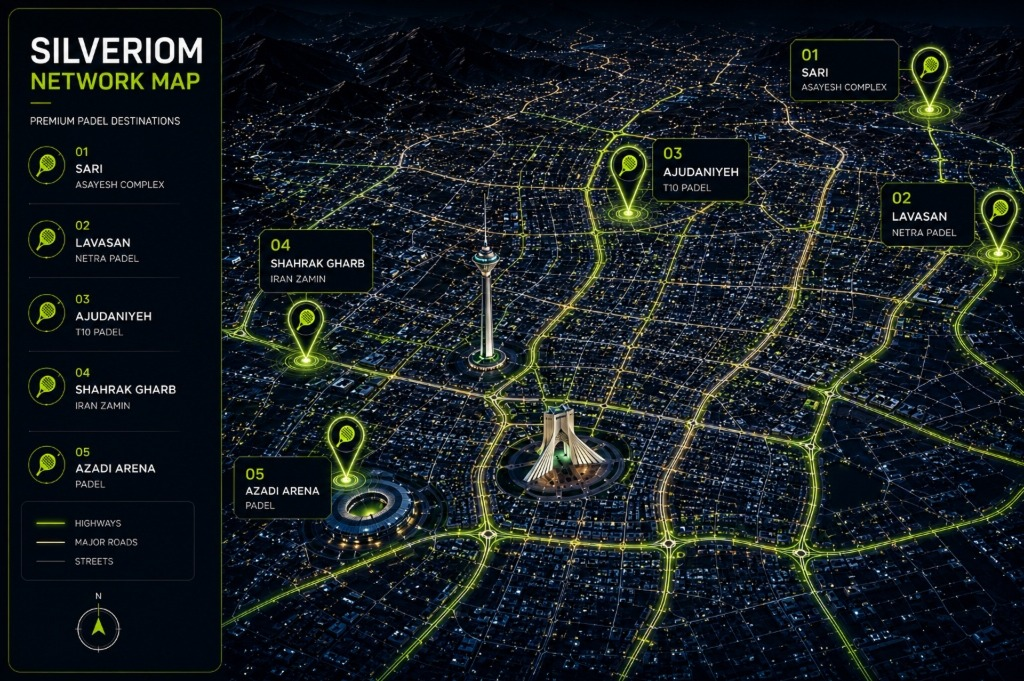
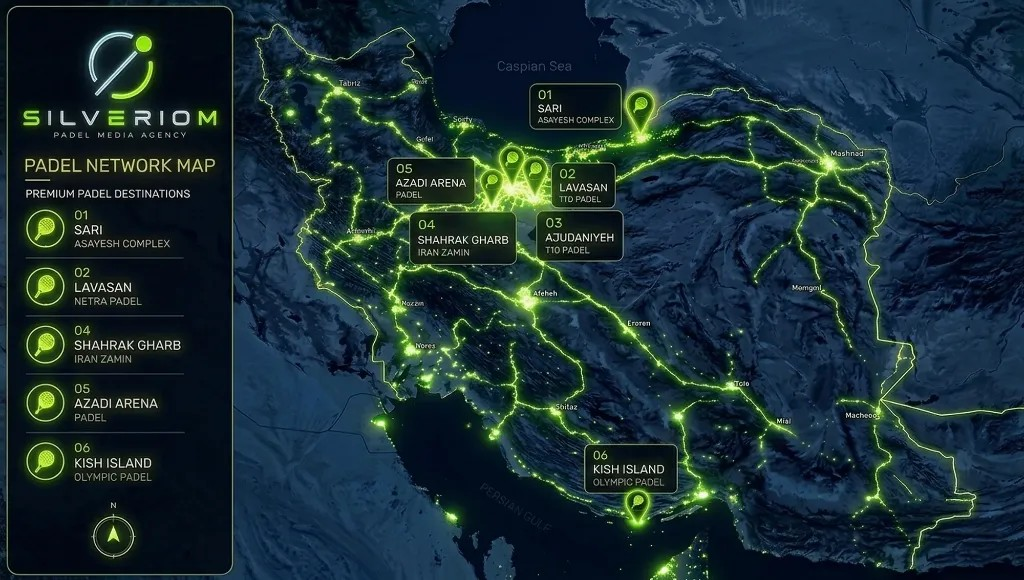
Replace existing network map with new Kish padel map - use synced path

diff --git a/index.html b/index.html
@@ -6708,7 +6708,7 @@ html {
 
         <div class="map-interactive-wrapper">
           <div class="map-canvas-box">
-            <img src="assets/silveriom_network_map_kish.jpg" alt="نقشه کورتها و رسانههای اختصاصی سیلوریوم" class="map-bg-img" loading="lazy">
+            <img src="assets/silveriom_network_map.jpg" alt="نقشه کورتها و رسانههای اختصاصی سیلوریوم" class="map-bg-img" loading="lazy">
             
             <!-- Interactive Location Beacons Centered Exactly Over Map Pin Heads -->
             <!-- 1. T10 (Ajudaniyeh) -->

diff --git a/sync_all.php b/sync_all.php
@@ -4,7 +4,6 @@ $files = [
     "loader_concepts.html",
     "index.html",
     "assets/iran_padel_hud_map_v2.jpg",
-    "assets/silveriom_network_map_kish.jpg",
     "assets/iran_padel_hud_map_v2.webp",
     "homepage.html",
     "media-planner.html",
